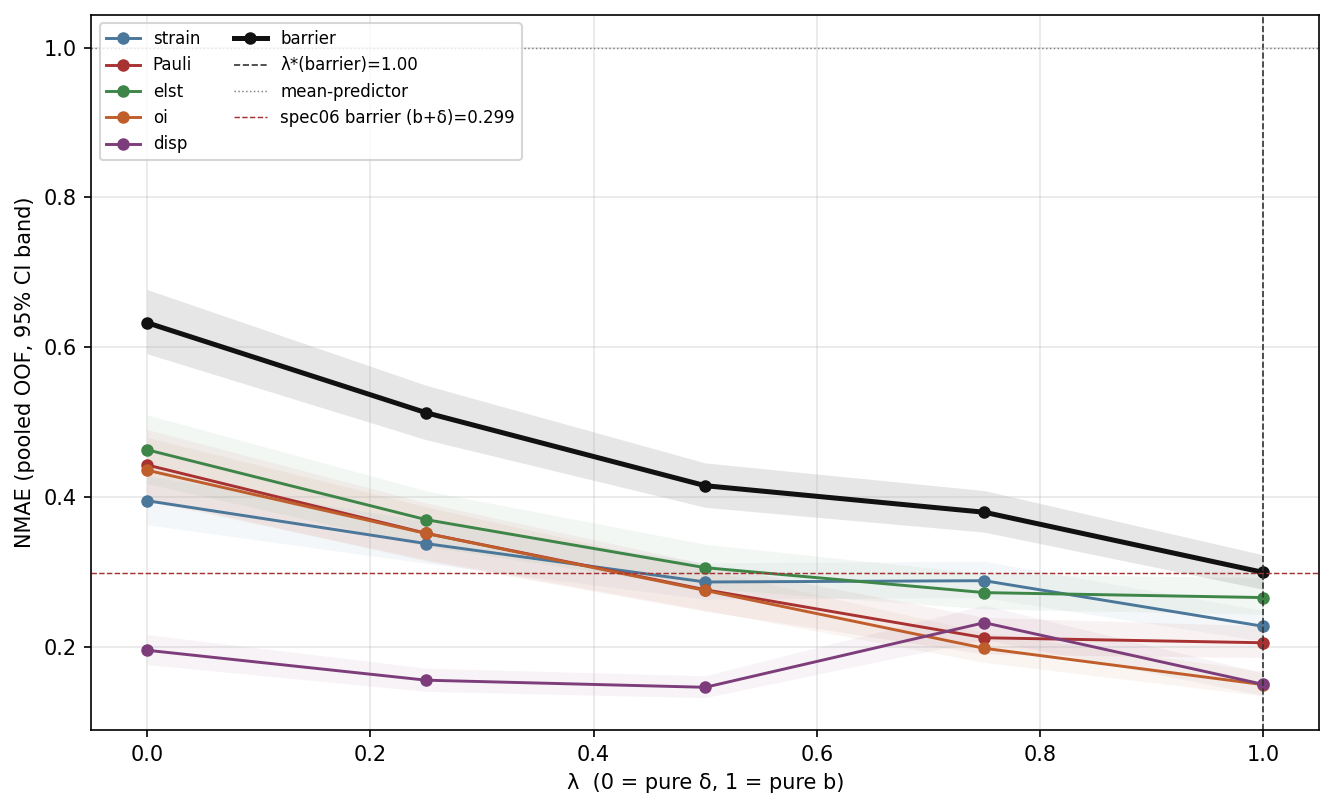
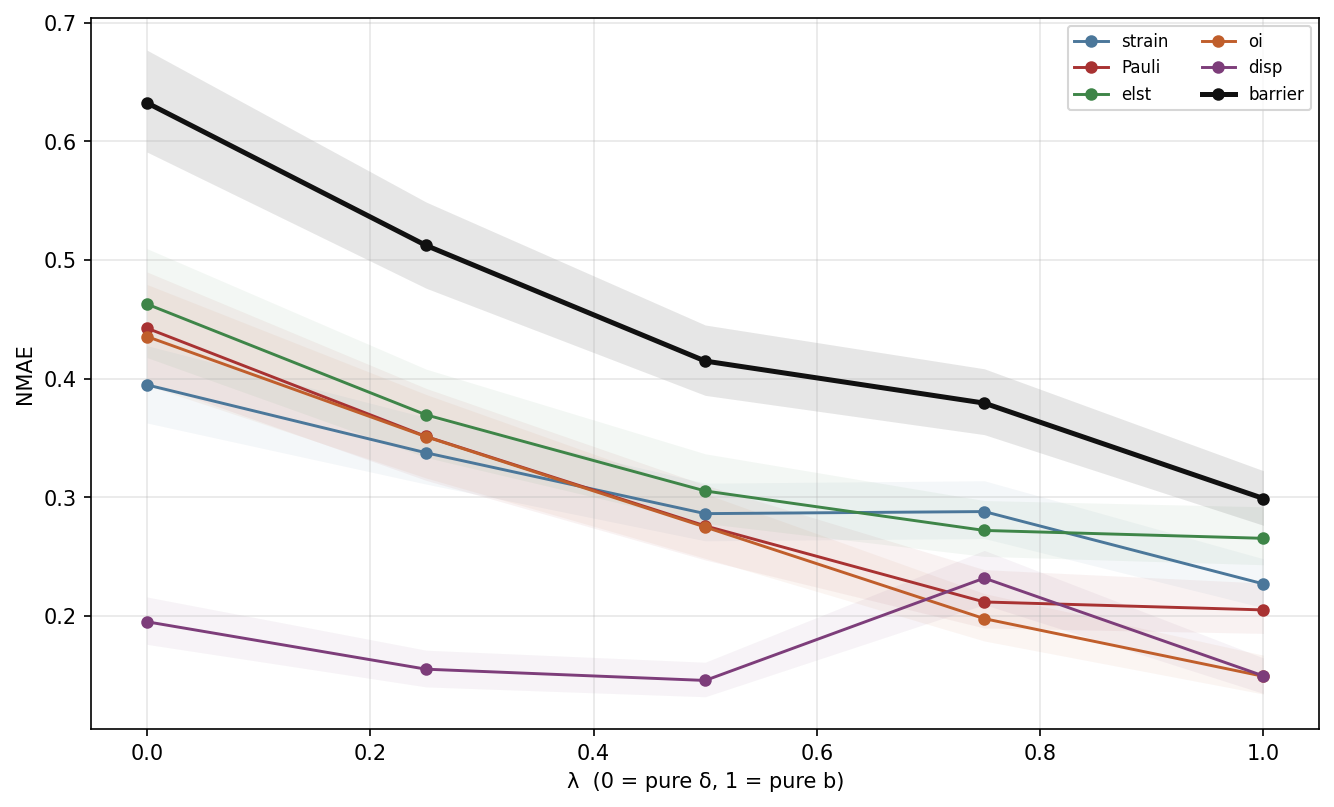
spec07: strip reference lines from λ curves; ylabel = NMAE / RMSE

diff --git a/spec/spec07_lambda_contribution/code/plot_lambda.py b/spec/spec07_lambda_contribution/code/plot_lambda.py
@@ -36,18 +36,7 @@ CH_COLORS = {
 }
 
 
-def _get_spec06_ref():
-    """Pull spec06 (b+δ additive, unconstrained) barrier NMAE if aggregated."""
-    p = REPO / "spec/spec06_2step_xgb28_delta/results/metrics.csv"
-    if not p.exists():
-        return None
-    df = pd.read_csv(p)
-    r = df[(df.arm == "xgb28_delta") & (df.channel == "barrier")
-           & (df.metric == "NMAE")]
-    return float(r.iloc[0].point) if len(r) else None
-
-
-def plot_metric_curve(curve_df, metric, ylabel, path, ref_barrier=None):
+def plot_metric_curve(curve_df, metric, ylabel, path):
     lambdas = sorted(curve_df["lambda"].unique())
     fig, ax = plt.subplots(figsize=(9, 5.5))
     for ch in CHANNELS + ["barrier"]:
@@ -63,23 +52,8 @@ def plot_metric_curve(curve_df, metric, ylabel, path, ref_barrier=None):
         ax.fill_between(lambdas, lo, hi, color=CH_COLORS[ch], alpha=alpha_band,
                         linewidth=0)
 
-    # λ* for barrier (dashed vertical)
-    star_json = OUT_RES / "lambda_star.json"
-    if star_json.exists():
-        st = json.loads(star_json.read_text())
-        if "barrier" in st:
-            lb = st["barrier"]["lambda"]
-            ax.axvline(lb, color="#333", ls="--", lw=0.8,
-                       label=f"λ*(barrier)={lb:.2f}")
-
-    if metric == "NMAE":
-        ax.axhline(1.0, color="gray", ls=":", lw=0.7, label="mean-predictor")
-        if ref_barrier is not None:
-            ax.axhline(ref_barrier, color="#a83232", ls="--", lw=0.7,
-                       label=f"spec06 barrier (b+δ)={ref_barrier:.3f}")
-
     ax.set_xlabel("λ  (0 = pure δ, 1 = pure b)")
-    ax.set_ylabel(f"{ylabel} (pooled OOF, 95% CI band)")
+    ax.set_ylabel(ylabel)
     ax.grid(alpha=0.3)
     ax.legend(fontsize=8, loc="best", ncol=2)
     fig.tight_layout()
@@ -131,11 +105,8 @@ def parity_at_lamstar(pooled_df, path):
 def main():
     curve_df = pd.read_csv(OUT_RES / "lambda_curve.csv")
     pooled = pd.read_parquet(OUT_RES / "pooled_oof.parquet")
-    ref = _get_spec06_ref()
-    plot_metric_curve(curve_df, "NMAE", "NMAE",
-                      OUT_FIG / "lambda_nmae.png", ref_barrier=ref)
-    plot_metric_curve(curve_df, "RMSE", "RMSE (kcal/mol)",
-                      OUT_FIG / "lambda_rmse.png", ref_barrier=None)
+    plot_metric_curve(curve_df, "NMAE", "NMAE", OUT_FIG / "lambda_nmae.png")
+    plot_metric_curve(curve_df, "RMSE", "RMSE", OUT_FIG / "lambda_rmse.png")
     parity_at_lamstar(pooled, OUT_FIG / "parity_at_lamstar.png")
     print(f"wrote figures under {OUT_FIG}")
 